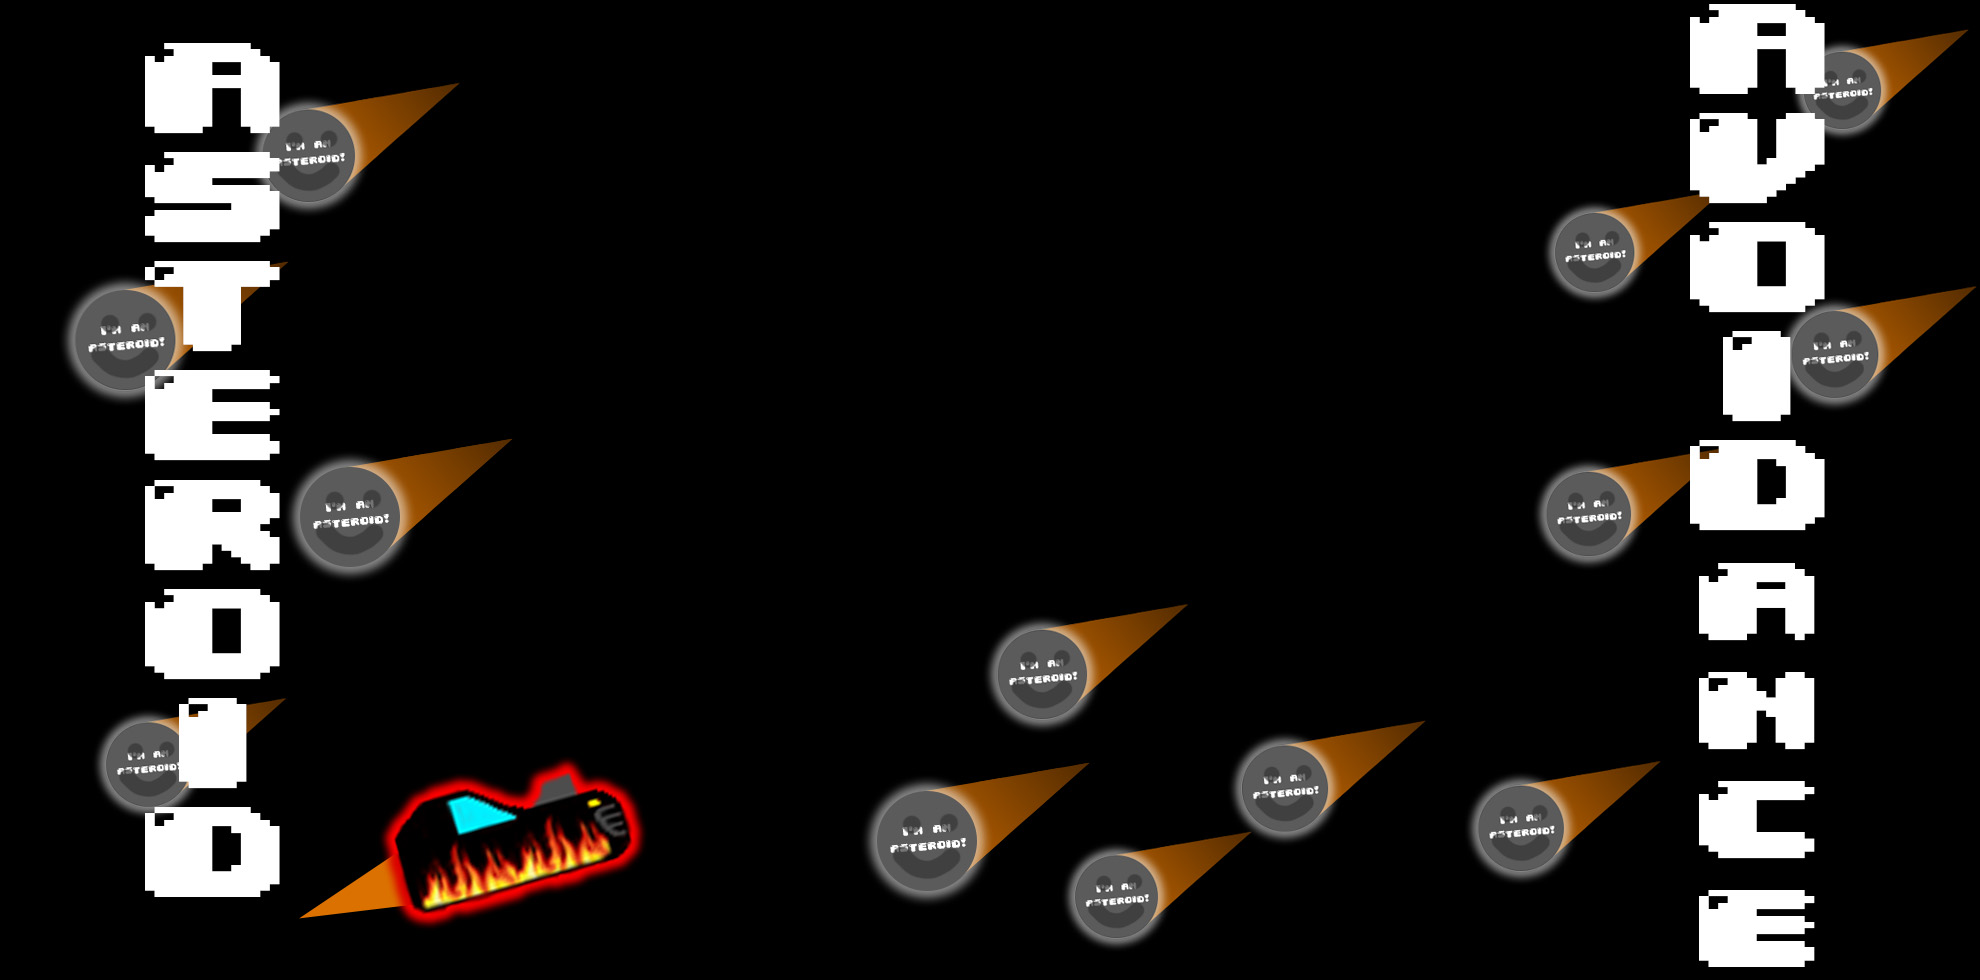
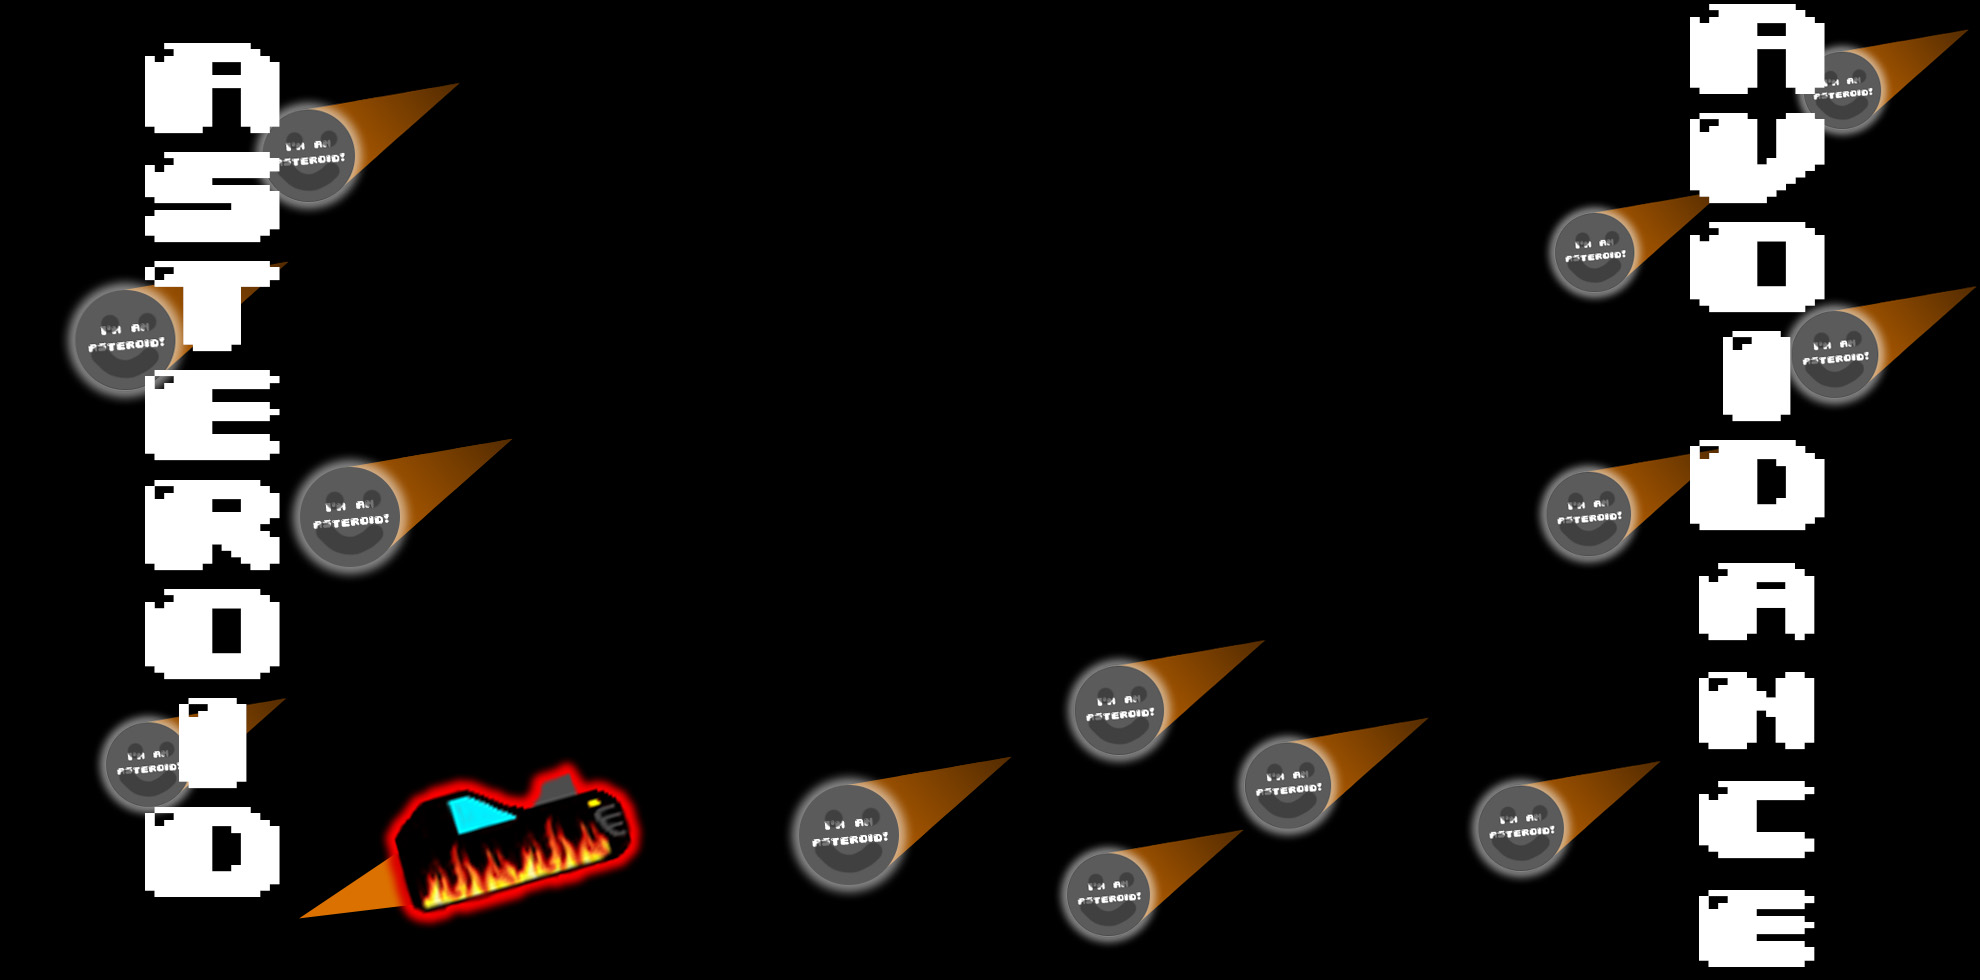
Final Project

Changed region(s): [[0.4005, 0.6122, 0.647, 0.9796], [0.6162, 0.7347, 0.7086, 0.8571]]

diff --git a/Final Project/script2.js b/Final Project/script2.js
@@ -11,6 +11,7 @@ var currentState = 0;
 var ship;
 var Box;
 var highScore = 0;
+var God = false;
 
 //call images
 var Player = new Image();
@@ -38,7 +39,7 @@ function randomRange(high, low){
 
 //Class for the Asteroids
 function Asteroid(){
-    this.radius = randomRange(60,20);
+    this.radius = randomRange(35,10);
     this.x = randomRange(0 + this.radius, c.width - this.radius) + c.width;
     this.y = randomRange(c.height - this.radius, 0 + this.radius);
     this.vx = randomRange(-10, -5);
@@ -47,15 +48,6 @@ function Asteroid(){
 
     this.draw = function(){
         drawAss(this.x,this.y,this.radius,this.radius);
-        /*
-        ctx.save();
-        ctx.beginPath();
-        ctx.fillStyle = this.color;
-        ctx.arc(this.x,this.y,this.radius,0,2*Math.PI,true);
-        ctx.closePath();
-        ctx.fill();
-        ctx.restore();
-        */
     }
 }
 
@@ -74,7 +66,7 @@ function PlayerShip(){
     this.x = c.width/2;
     this.y = c.height/2;
     this.w = 20;
-    this.h = 20;
+    this.h = 10;
     this.vx = 0;
     this.vy = 0;
     this.up = false;
@@ -106,7 +98,14 @@ function PlayerShip(){
             ctx.fill();
             ctx.restore();
         }
-        drawPlayer(); 
+
+        if(God == false){
+            drawPlayer(Player); 
+        }
+        else{
+            drawPlayer(GodMode);
+        }
+        
         ctx.restore();
     }
     
@@ -140,20 +139,21 @@ function PlayerShip(){
 
 function Invin(){
     this.x = randomRange(400,50);
-    this.y = -50
+    this.y = -50;
     this.w = 40;
     this.h = 40;
-    this.vy = 3
+    this.vy = 3;
+    this.seconds = 5;
+    this.counter = 0;
 
     this.draw = function(){
-        drawBox();
+        drawBox(Box.x, Box.y,Box.w,Box.h);
     }
     
     this.move = function(){
         Box.y += Box.vy;
         if(score % 10 == 0){
             Box.y = -50;
-            Box.y += Box.vy;
         }
     }
 }
@@ -162,7 +162,7 @@ document.addEventListener('keydown', keyPressDown);
 document.addEventListener('keyup', keyPressUp);
 
 function keyPressDown(e){
-    //console.log("Key Down " + e.keyCode);
+    //console.log("Key Down " + e.keyCode); 
     if(gameOver == false){
         if(e.keyCode === 38){
             
@@ -216,7 +216,7 @@ function keyPressUp(e){
 
 //Game States for menus and gameplay
 gameStates[0] = function(){
-   drawTitle();
+   drawTitle(Title);
 }
 
 gameStates[1] = function(){
@@ -247,31 +247,32 @@ gameStates[1] = function(){
         ship.vy = 0;
     }
 
+    if(gameOver == false){
+        var dX = (ship.x + (ship.w / 2)) - (Box.x + (Box.w / 2));
+        var dY = (ship.y + (ship.h / 2)) - (Box.y + (Box.h / 2));
+        var distBox = Math.sqrt((dX*dX)+(dY*dY));
+
+        if(detectCollision(distBox, (ship.w/2 + (Box.w / 2)))){
+            God = true;
+        }
+        if(score % 10 == 8){
+            God = false;
+        }
+    }
+
     for(var i = 0; i<asteroids.length; i++){
-        /*
-        DO IF ELSE STATEMENT HERE FOR INVINCIBILTY
-        */
+        if(God == false){
+            //using the distance formula to find distance between ship and asteroid
+            var dX = (ship.x + (ship.w)) - (asteroids[i].x + (asteroids[i].radius / 2));
+            var dY = (ship.y + (ship.h / 2)) - (asteroids[i].y + (asteroids[i].radius / 2));
+            var distAss = Math.sqrt((dX*dX)+(dY*dY));
 
-        // START ELSE HERE
-        
-        //using the distance formula to find distance between ship and asteroid
-        var dX = (ship.x + 15) - asteroids[i].x;
-        if(asteroids[i].y < ship.y){
-            var dY = ship.y - (asteroids[i].y + 20);
+            //checks for collision with asteroid and ends game
+            if(detectCollision(distAss, (ship.w/2 + asteroids[i].radius))){
+                gameOver = true;
+                currentState = 2;
+            }
         }
-        else{
-            var dY = ship.y - (asteroids[i].y - 20);
-        }
-        var dist = Math.sqrt((dX*dX)+(dY*dY));
-
-        //checks for collision with asteroid and ends game
-        if(detectCollision(dist, ((ship.h - 25) + (asteroids[i].radius / 2)))){
-           
-            gameOver = true;
-            currentState = 2;
-        }
-
-        /* END ELSE HERE*/
 
         //checks to see if asteroid is off screen
         if(asteroids[i].x < 0 - asteroids[i].radius){
@@ -302,7 +303,7 @@ gameStates[1] = function(){
 }
 
 gameStates[2] = function(){
-    drawEndGame();
+    drawTitle(EndGame);
     ctx.textAlign = "center";
     ctx.fillStyle = "white";
     ctx.font = "50px Arial";
@@ -323,7 +324,7 @@ function scoreTimer(){
         
         if(score % 5 == 0){
             numAsteroids += 5;
-            console.log(numAsteroids);
+          //  console.log(numAsteroids);
         }
 
         setTimeout(scoreTimer,1000);
@@ -337,26 +338,18 @@ function detectCollision(distance, calcDistance){
     return distance < calcDistance;
 }
 
-function drawPlayer(){
-    ctx.drawImage(Player, -10, -27,50,50);
+function drawPlayer(Thing,w,h){
+    ctx.drawImage(Thing, -10, -27,50,50);
 }
 
 function drawAss( x, y, w, h){
     ctx.drawImage(Ass, x, y, w, h);
 }
 
-function drawTitle(){
-    ctx.drawImage(Title,0,0,800,600);
+function drawTitle(Pic){
+    ctx.drawImage(Pic,0,0,800,600);
 }
 
-function drawEndGame(){
-    ctx.drawImage(EndGame,0,0,800,600);
-}
-
-function drawBox(){
-    ctx.drawImage(InvinBox,Box.x,Box.y,50,50);
-}
-
-function drawGodMode(){
-    ctx.drawImage(GodMode, -10, -27,40,40);
+function drawBox(x,y,w,h){
+    ctx.drawImage(InvinBox,x,y,w,h);
 }

diff --git a/Final Project/instruct.html b/Final Project/instruct.html
@@ -16,7 +16,7 @@
         <nav>
             <a href="index.html">HOME SCREEN</a>
         </nav>
-        <p>When you start the game, <br><br> astroids will be flying towards your ship, <br><br> and its your job to navigate the oncoming barage.  <br><br><br><br><br> Use your arrow keys to move. <br><br><br><br><br> if your ship gets hit with an astroid, <br><br> your ship will be destroyed. <br><br> Be careful not to fall behind, <br><br> if your ship goes off the screen <br><br> you'll get sucked out to space</p>
+        <p>When you start the game, <br><br> astroids will be flying towards your ship, <br><br> and its your job to navigate the oncoming barage.  <br><br><br><br><br> Use your arrow keys to move. <br><br><br><br><br> if your ship gets hit with an astroid, <br><br> your ship will be destroyed. <br><br> Be careful not to fall behind, <br><br> if your ship goes off the screen <br><br> you'll get sucked out to space. <br><br> Collect the power up to become invincible for 5 seconds. <br><br> Good Luck Pilot!</p>
         <footer>
             &copy; HTML JavaScript Class
         </footer>

diff --git a/Final Project/script.js b/Final Project/script.js
@@ -233,12 +233,10 @@ gameStates[1] = function(){
         var dist = Math.sqrt((dX*dX)+(dY*dY));
         
         //checks for collision with asteroid and ends game
-        if(detectCollision(dist, (ship.h/2 + asteroids[i].radius))){
+        if(detectCollision(dist, (ship.w/2 + asteroids[i].radius))){
            // console.log("We collided with Asteroid " + i);
             gameOver = true;
             currentState = 2;
-            //document.removeEventListener('keydown', keyPressDown);
-            //document.removeEventListener('keyup', keyPressUp);
         }
 
         //checks to see if asteroid is off screen
